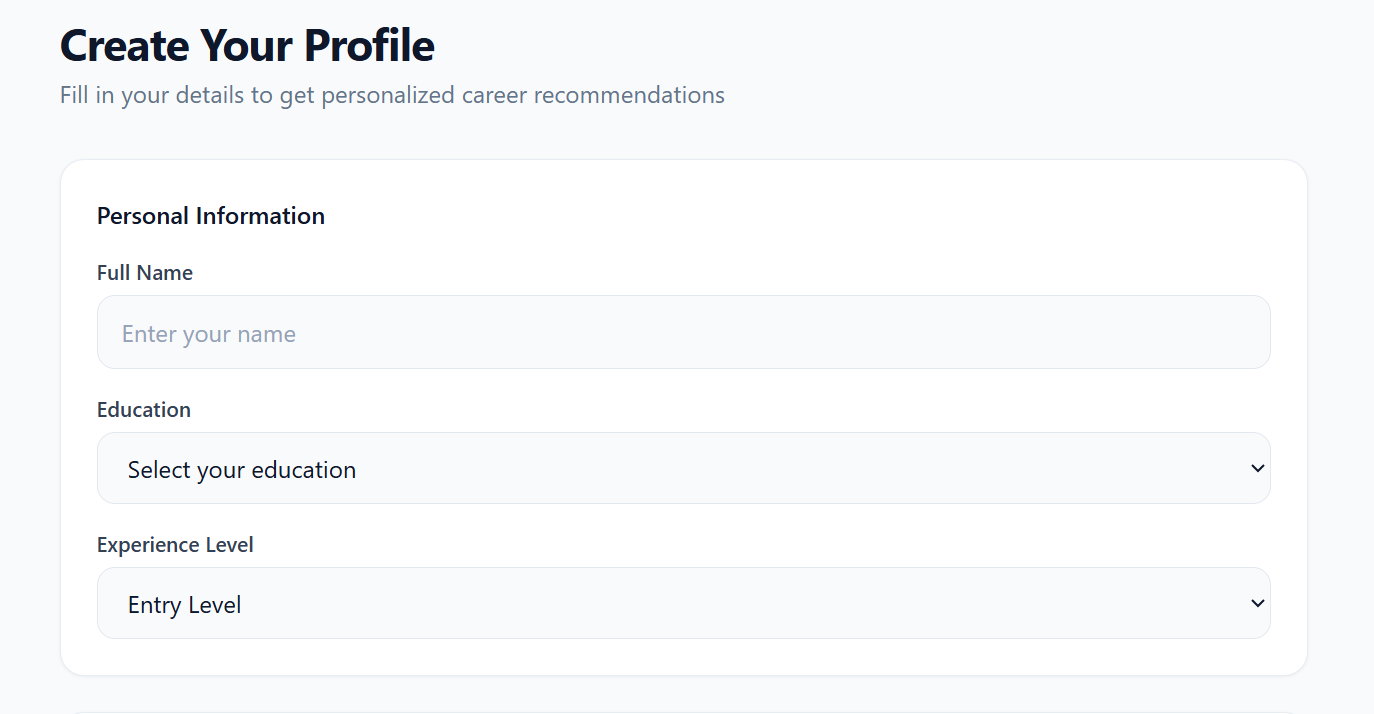
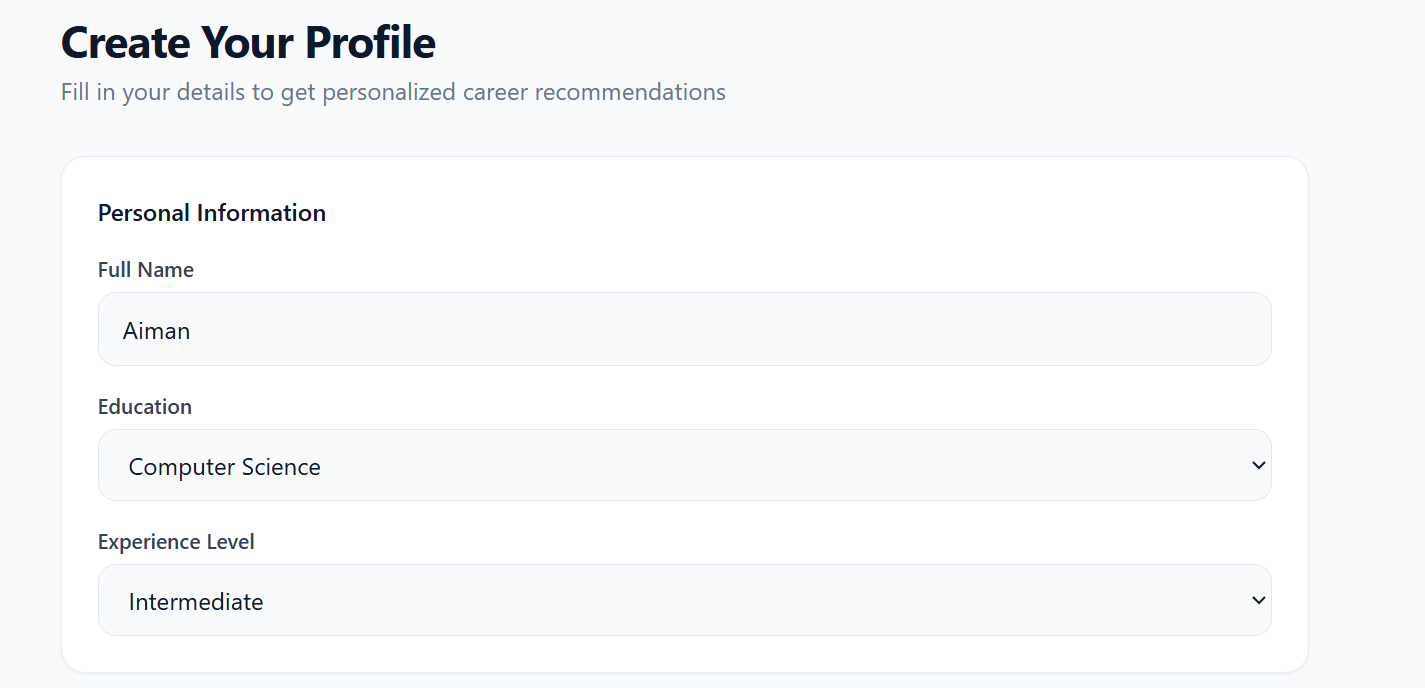
added the recommendation ss

diff --git a/README.md b/README.md
@@ -40,8 +40,9 @@ This project demonstrates the integration of Machine Learning, Generative AI, ba
 ![Career Recommendations](./screenshots/learning-page2.png)
 
 ![Career Recommendations](./screenshots/learning-path,png.png)
+### recommended roles
 
-
+![Recommendations](./screenshots/recommendations.png)`
 ---
 
 ## How It Works
